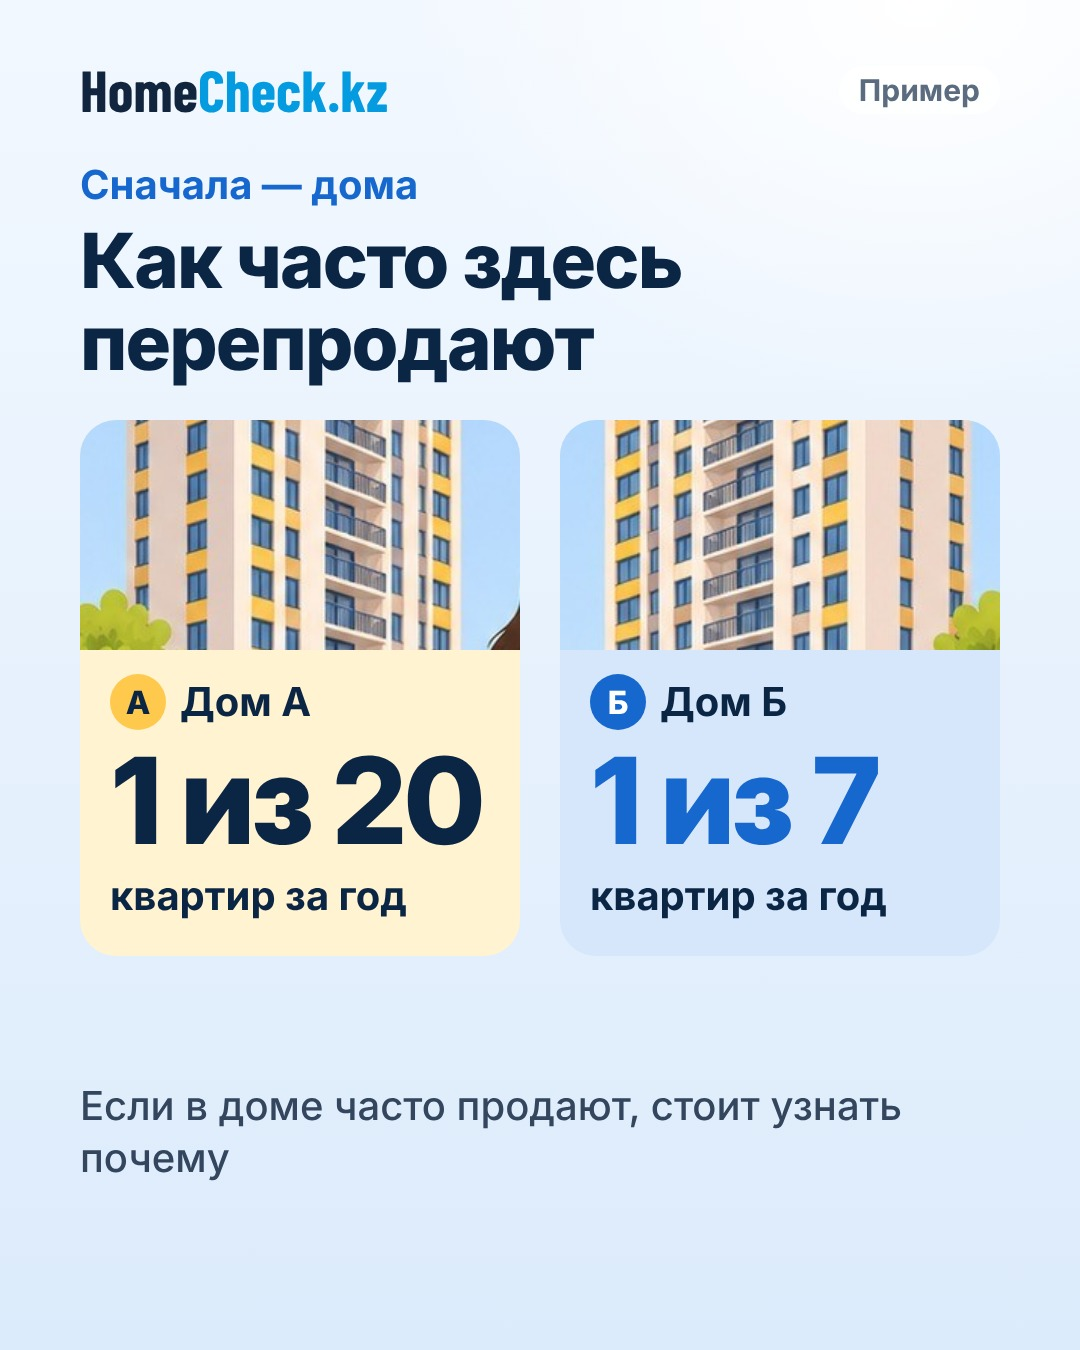
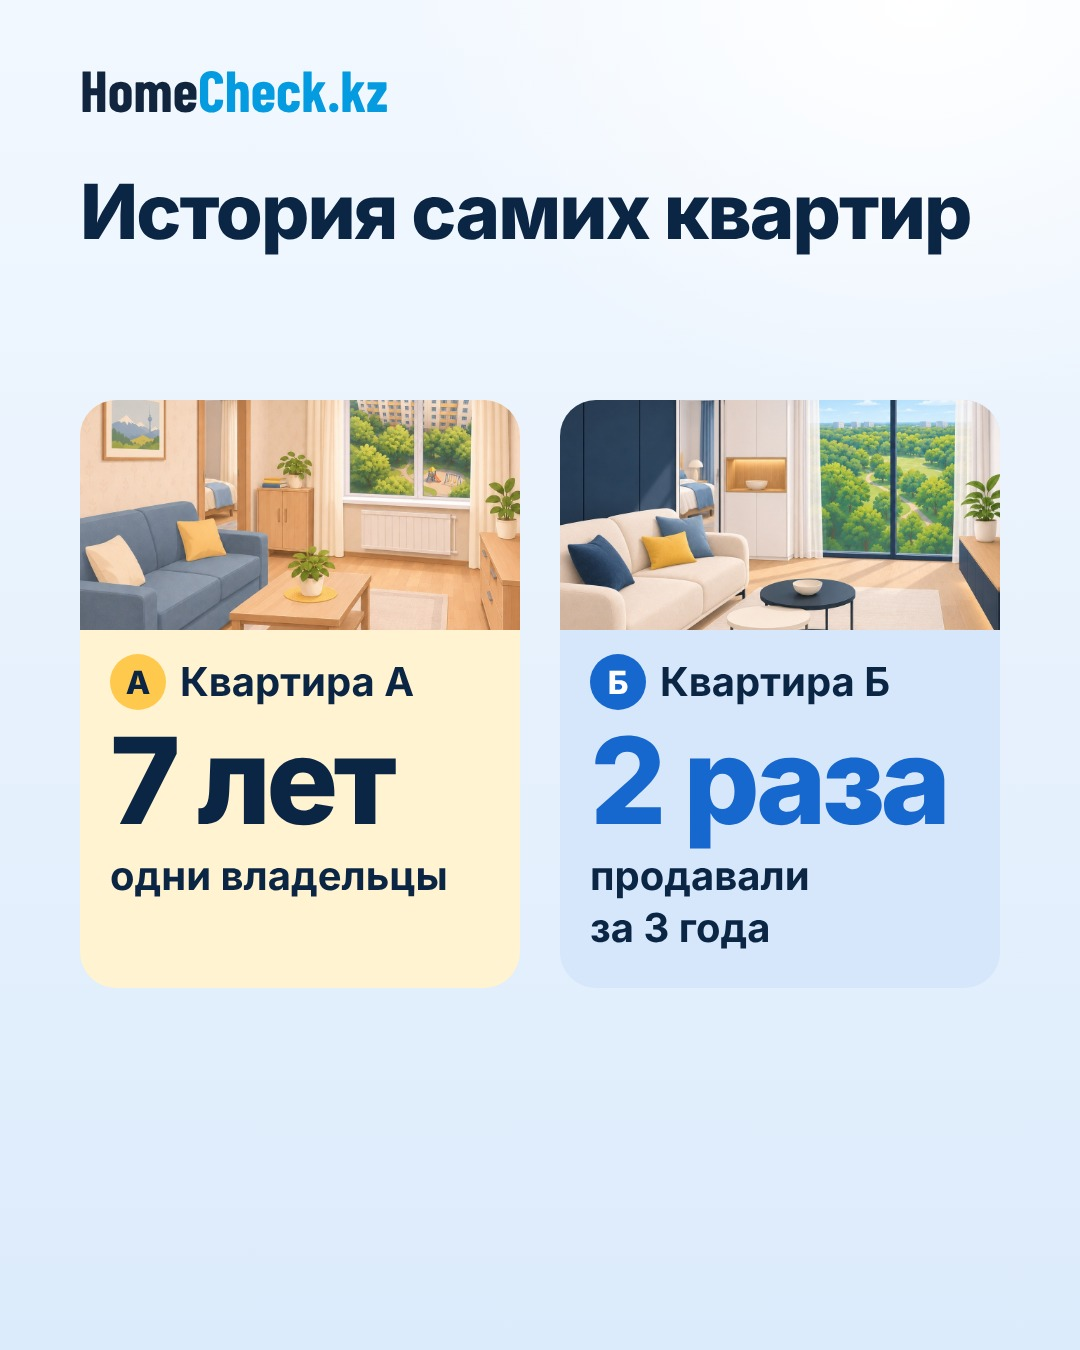
Две квартиры: 8 слайдов, без подписей разделов и пометки «Пример», новые сцены с героиней, подпись
Claude-Session: https://claude.ai/code/session_01YPTRhbcfXRBnSeVtmn8ipe

Changed region(s): [[0.0611, 0.1244, 0.9472, 0.7467], [0.0611, 0.8089, 0.825, 0.8711], [0.7944, 0.0622, 0.9167, 0.0933]]

diff --git a/posts/2026-11-23-dve-kvartiry/build.py b/posts/2026-11-23-dve-kvartiry/build.py
@@ -1,6 +1,6 @@
 """Пост «Две похожие квартиры в соседних домах» (пн 23.11.2026). Рубрика «Люди и ситуации».
 Иллюстрации — ChatGPT (команда), героиня та же, что в Reels «Тогда и сейчас»; метка ИИ.
-Цифры — пример (пометка «Пример»). Фирменная палитра: А — жёлтый, Б — синий. Типографика: 76 / 120 / 40."""
+Цифры условные (дома без названий); пометку «Пример» команда убрала 16.11.2026. Фирменная палитра: А — жёлтый, Б — синий. Типографика: 76 / 120 / 40."""
 import sys, pathlib
 sys.path.insert(0, str(pathlib.Path(__file__).resolve().parents[2] / 'templates'))
 from playwright.sync_api import sync_playwright
@@ -15,7 +15,7 @@ NUM = {'А': NAVY, 'Б': BLUE}
 FG = {'А': NAVY, 'Б': '#FFFFFF'}
 TINT = {'А': '#FFF3D1', 'Б': '#D6E7FB'}
 IMG = {n: data_uri(Image.open(HERE / 'src' / f'{n}.jpg')) for n in
-       ['houses', 'flat_a', 'flat_b', 'house_a', 'house_b', 'surprised', 'window']}
+       ['houses', 'flat_a', 'flat_b', 'house_a', 'house_b', 'cafe', 'balcony']}
 
 CSS = f"""
 @font-face{{font-family:'Barlow Condensed';font-weight:700;src:url('{FONT_LOGO_URI}')}}
@@ -38,7 +38,7 @@ CSS = f"""
 def page(inner, ex=False):
     return (f'<!doctype html><html lang="ru"><head><meta charset="utf-8"><style>{CSS}</style></head><body><div class="s">'
             f'<span class="logo"><span class="h">Home</span><span class="c">Check.kz</span></span>'
-            f'{"<span class=ex>Пример</span>" if ex else ""}{inner}</div></body></html>')
+            f'{inner}</div></body></html>')
 
 
 def badge(k, size=84, fs=48):
@@ -85,8 +85,8 @@ def versus(section, title, a, b, line, thumbs=('house_a', 'house_b')):
                 f'<div style="padding:24px 30px 0"><div style="display:flex;align-items:center;gap:14px;margin-bottom:14px">{badge(k, 56, 32)}<span class="p b">{"Дом" if th.startswith("house") else "Квартира"} {k}</span></div>'
                 f'<div class="n" style="color:{NUM[k]}">{n}</div>'
                 f'<p class="p b" style="margin-top:12px">{u}</p></div></div>')
-    return page(f'<div class="col" style="top:160px"><p class="lab" style="color:#1768CE">{section}</p><h2 class="t">{title}</h2></div>'
-                f'<div class="col" style="top:420px;display:flex;justify-content:space-between;align-items:stretch">{side("А", a, thumbs[0])}{side("Б", b, thumbs[1])}</div>'
+    return page(f'<div class="col" style="top:170px"><h2 class="t">{title}</h2></div>'
+                f'<div class="col" style="top:400px;display:flex;justify-content:space-between;align-items:stretch">{side("А", a, thumbs[0])}{side("Б", b, thumbs[1])}</div>'
                 f'<p class="p col" style="top:1080px">{line}</p>', ex=True)
 
 
@@ -100,7 +100,7 @@ S7 = versus('Теперь — квартиры', 'История самих кв
             '', thumbs=('flat_a', 'flat_b'))
 
 # 8 — что получается
-S8 = page(f'<img src="{IMG["surprised"]}" style="position:absolute;left:0;top:0;width:1080px;height:640px;object-fit:cover;object-position:50% 35%">'
+S8 = page(f'<img src="{IMG["cafe"]}" style="position:absolute;left:0;top:0;width:1080px;height:640px;object-fit:cover;object-position:50% 0%">'
           f'<div style="position:absolute;left:0;top:0;width:1080px;height:200px;z-index:2;background:linear-gradient(180deg,rgba(242,248,255,.9),rgba(242,248,255,0))"></div>'
           f'<div style="position:absolute;left:0;top:420px;width:1080px;height:230px;z-index:2;background:linear-gradient(180deg,rgba(230,241,253,0),#E6F1FD)"></div>'
           f'<div class="col" style="top:600px"><h2 class="t">Что получается</h2>'
@@ -110,12 +110,12 @@ S8 = page(f'<img src="{IMG["surprised"]}" style="position:absolute;left:0;top:0;
           f'<p class="p" style="flex:1">Дороже сделок в&nbsp;доме, цены почти не&nbsp;растут, квартиру недавно перепродали. <b class=b>Есть о&nbsp;чём спросить продавца</b></p></div></div>')
 
 # 9 — финал: картинка на весь слайд, текст в небе
-S9 = page(f'<img src="{IMG["window"]}" style="position:absolute;inset:0;width:1080px;height:1350px;object-fit:cover;object-position:40% 50%">'
+S9 = page(f'<img src="{IMG["balcony"]}" style="position:absolute;inset:0;width:1080px;height:1350px;object-fit:cover;object-position:50% 50%">'
           f'<div style="position:absolute;left:0;top:0;width:1080px;height:640px;z-index:2;background:linear-gradient(180deg,rgba(242,248,255,.95) 0%,rgba(242,248,255,.85) 60%,rgba(242,248,255,0) 100%)"></div>'
           f'<div class="col" style="top:170px"><h2 class="t">Выбирайте квартиру не&nbsp;только глазами</h2>'
           f'<p class="p b" style="margin-top:22px">Сравните дом и&nbsp;квартиру по&nbsp;данным на&nbsp;<span style="color:{BLUE}">homecheck.kz</span></p></div>')
 
-SLIDES = [S1, S2, S3, S4, S5, S6, S7, S8, S9]
+SLIDES = [S1, S2, S3, S4, S5, S7, S8, S9]
 
 if __name__ == '__main__':
     with sync_playwright() as p:
